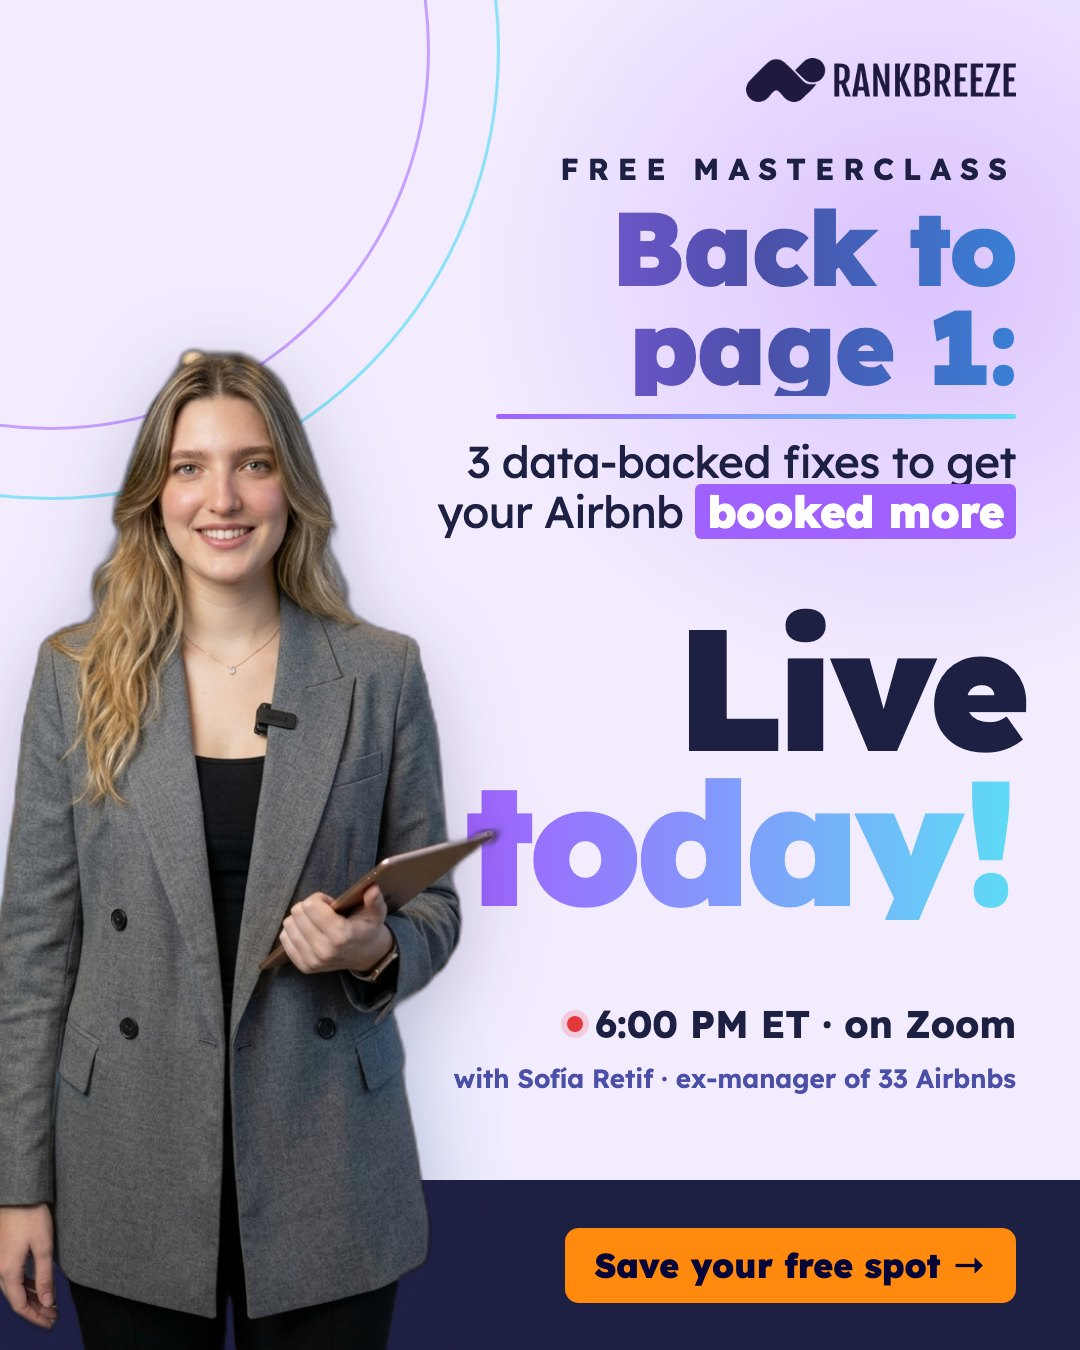
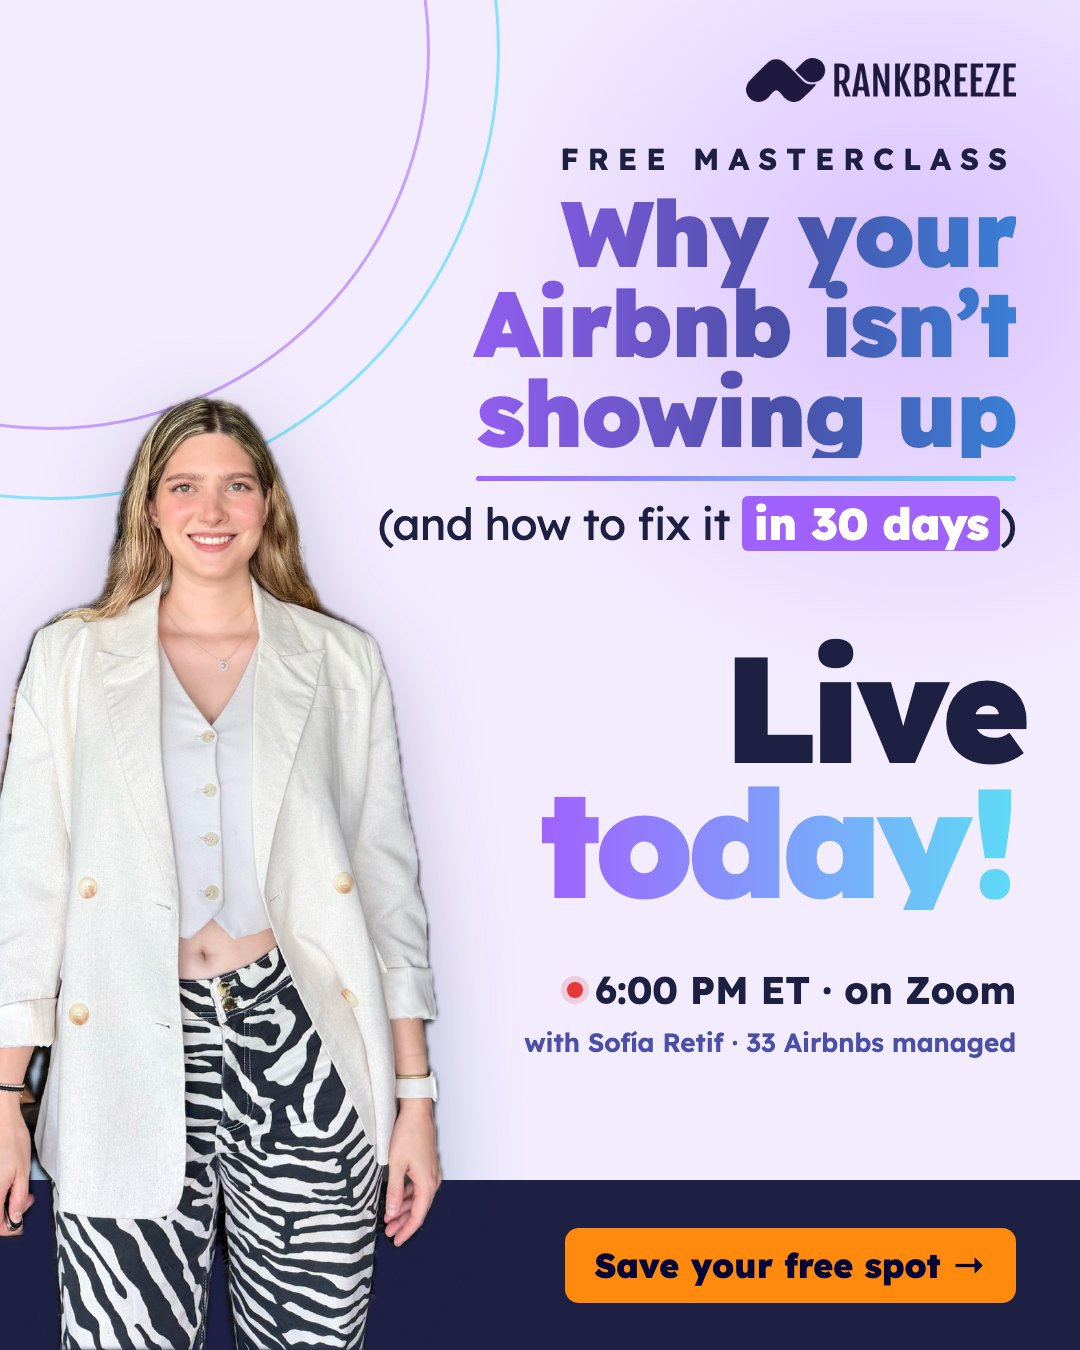
RankBreeze portfolio: masterclass post with new photo and headline

diff --git a/rankbreeze/index.html b/rankbreeze/index.html
@@ -858,9 +858,9 @@
         <p>Teach the 3 ranking levers live, show them inside Rankbreeze, then open the trial. The same system as my $20K launch, in your brand.</p>
         <div class="mc-flow"><span>Free class</span><i>→</i><span>Live demo</span><i>→</i><span>Trial offer</span><i>→</i><span>Onboarding</span></div>
         <p class="mc-k">Headlines I'd A/B test</p>
-        <ol class="heads"><li class="on"><span>A</span>Back to page 1: 3 data-backed fixes to get your Airbnb booked more</li><li><span>B</span>Why your Airbnb isn’t showing up (and how to fix it in 30 days)</li><li><span>C</span>Page 14 → Page 2: how hosts climb Airbnb search</li><li><span>D</span>Your listing didn’t get worse. It got buried.</li><li><span>E</span>Stop guessing: the price, photos and title that actually book</li><li><span>F</span>The 3 ranking levers Airbnb doesn’t tell you about</li></ol>
+        <ol class="heads"><li class="on"><span>A</span>Why your Airbnb isn’t showing up (and how to fix it in 30 days)</li><li><span>B</span>Back to page 1: 3 data-backed fixes to get your Airbnb booked more</li><li><span>C</span>Page 14 → Page 2: how hosts climb Airbnb search</li><li><span>D</span>Your listing didn’t get worse. It got buried.</li><li><span>E</span>Stop guessing: the price, photos and title that actually book</li><li><span>F</span>The 3 ranking levers Airbnb doesn’t tell you about</li></ol>
       </div>
-      <figure class="mc-poster"><img src="/assets/rankbreeze/masterclass-poster.jpg" alt="Concept Instagram post for a free Rankbreeze masterclass: Back to page 1, 3 data-backed fixes to get your Airbnb booked more, live today with Sofía Retif" loading="lazy"><figcaption>The launch post, in your brand</figcaption></figure>
+      <figure class="mc-poster"><img src="/assets/rankbreeze/masterclass-poster.jpg?v=2" alt="Concept Instagram post for a free Rankbreeze masterclass: Why your Airbnb isn’t showing up (and how to fix it in 30 days), live today with Sofía Retif" loading="lazy"><figcaption>The launch post, in your brand</figcaption></figure>
     </div>
     <p class="ig-note">Concept mockup made for this application. Not an official Rankbreeze account or post.</p>
   </div>
